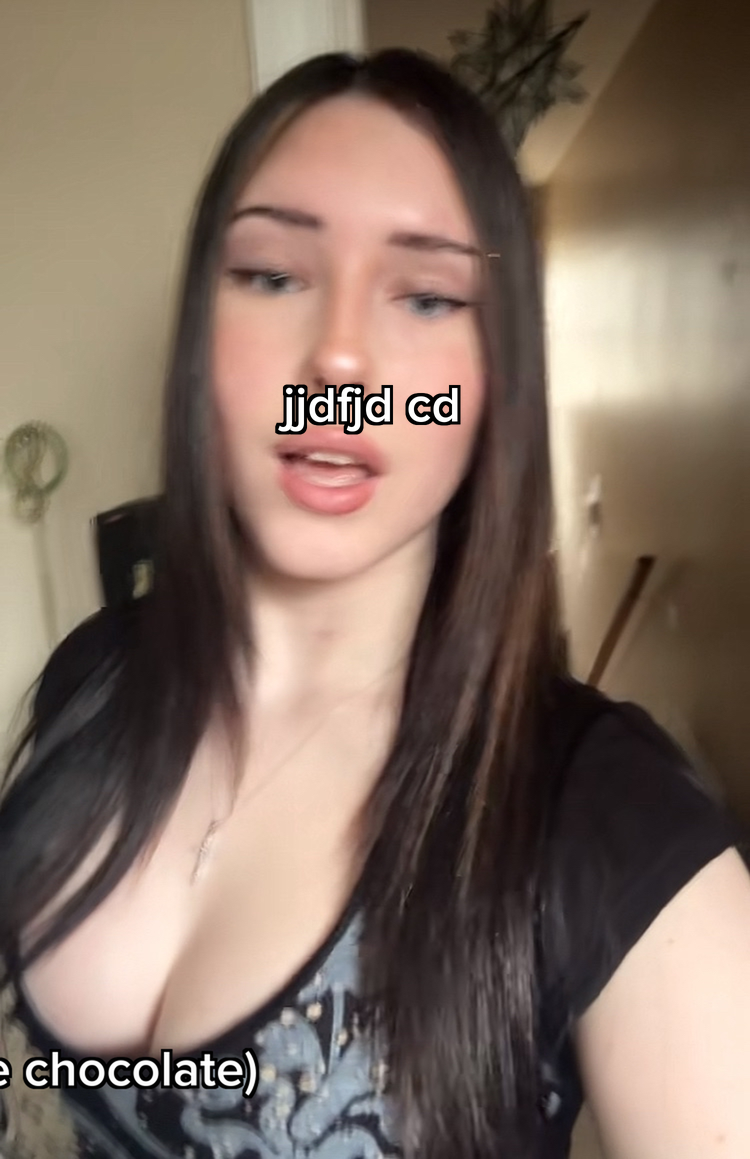
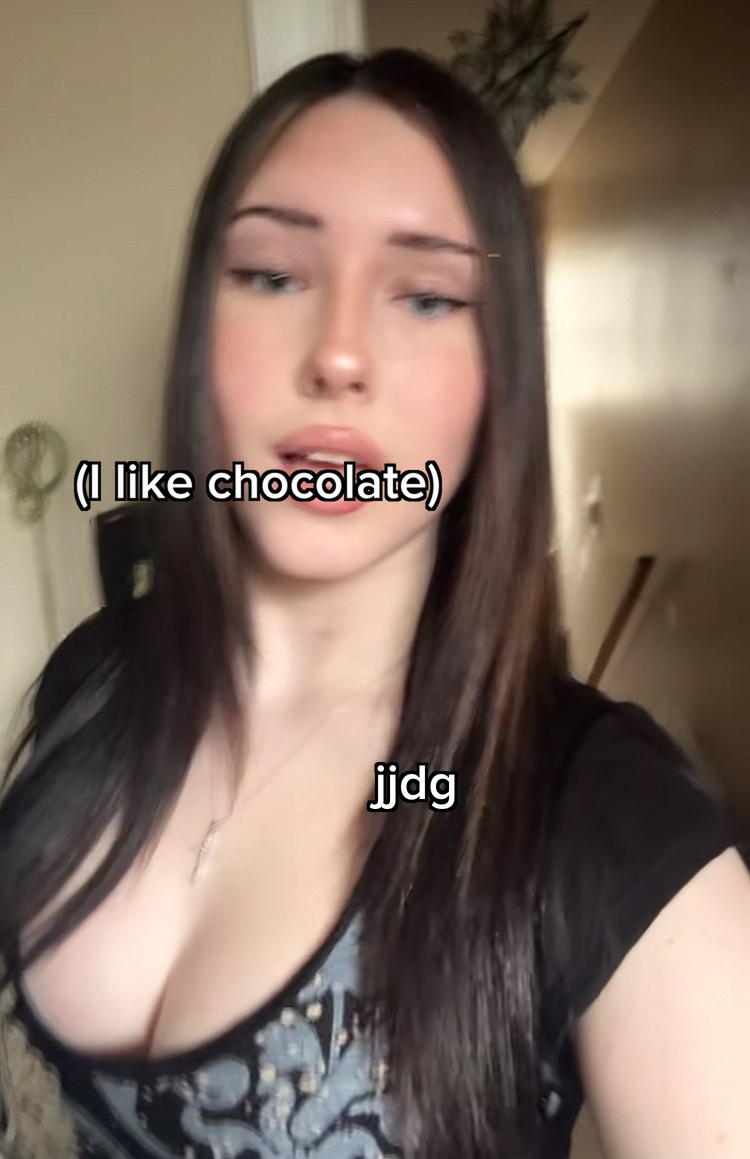
Fix settings propagation for extra captions

Changed region(s): [[0.092, 0.3106, 0.6133, 0.4659], [0.0, 0.9008, 0.368, 0.9629], [0.4907, 0.6523, 0.6133, 0.7144]]

diff --git a/interface/components/interface_settings_manager.py b/interface/components/interface_settings_manager.py
@@ -2046,6 +2046,10 @@ class InterfaceSettingsManager:
         try:
             from text.generate_image import generate_image
             
+            # Inject extra caption settings from session state so they are available to the renderer
+            if "extra_caption_settings" in st.session_state and st.session_state.extra_caption_settings:
+                settings_data["extra_caption_settings"] = st.session_state.extra_caption_settings
+            
             logger.trace(f"PREVIEW // About to call generate_image with settings: {settings_data}")
             
             result = generate_image(

diff --git a/text/generate_image.py b/text/generate_image.py
@@ -141,13 +141,7 @@ def generate_image(settings: Dict[str, Any], text_type: str, colour_index: int, 
         return renderer(**final_settings)
     
     # Render multiple captions with separate positions
-    # Try to get extra caption settings from streamlit session state
-    extra_settings = None
-    try:
-        import streamlit as st
-        extra_settings = st.session_state.get("extra_caption_settings", None)
-    except:
-        pass
+    extra_settings = settings.get("extra_caption_settings")
     
     img = image
     for idx, part in enumerate(parts):
